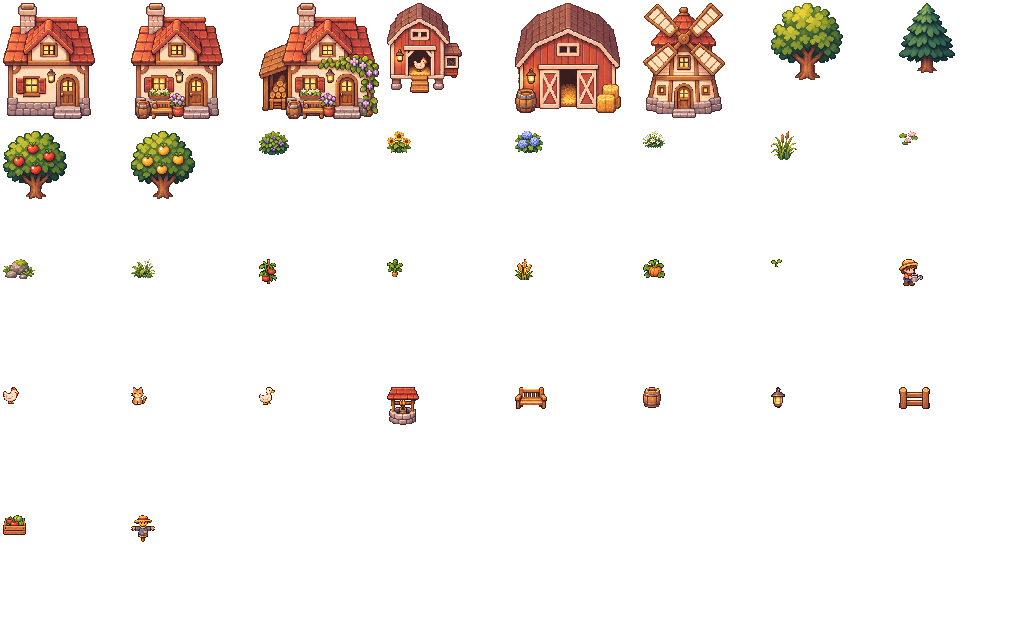
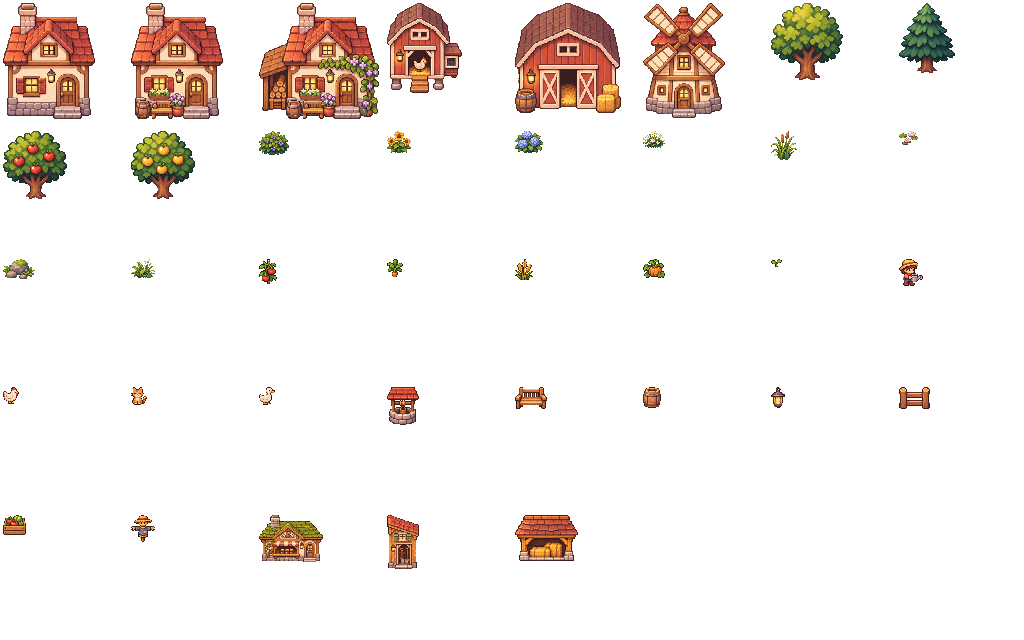
Add distinct workshop materials for the three starter farms

Changed region(s): [[0.5, 0.7812, 0.5625, 0.875], [0.25, 0.8125, 0.3125, 0.875], [0.375, 0.8125, 0.4062, 0.9062]]

diff --git a/src/render/props.js b/src/render/props.js
@@ -1,5 +1,78 @@
 // Small pixel details built on the same grid as the spring sprites.
+const fruitCrate = [
+  ['#543924', -10, -12, 20, 11], ['#805236', -9, -11, 18, 5],
+  ['#674027', -8, -10, 16, 4], ['#d39755', -9, -6, 18, 2],
+  ['#a97543', -9, -4, 18, 2], ['#674427', -9, -2, 18, 2],
+  ['#e5b775', -10, -8, 2, 6], ['#99683d', 8, -8, 2, 6],
+];
+
 export const yardProps = {
+  'fruit-ladder': [
+    ['#59402a', -9, -2, 19, 2], ['#69472d', -3, -27, 4, 25],
+    ['#b58250', -2, -26, 2, 23], ['#593d27', 3, -26, 3, 20],
+    ['#6b472c', -8, -2, 3, 2], ['#6b472c', -7, -9, 3, 8],
+    ['#6b472c', -6, -16, 3, 8], ['#6b472c', -5, -23, 3, 8],
+    ['#d5a270', -6, -8, 2, 6], ['#d5a270', -5, -15, 2, 6],
+    ['#d5a270', -4, -22, 2, 6], ['#d5a270', -3, -27, 2, 5],
+    ['#a17144', -4, -22, 9, 2], ['#c9945d', -5, -16, 10, 2],
+    ['#c9945d', -6, -10, 11, 2], ['#c9945d', -7, -4, 12, 2],
+  ],
+  'fruit-crate-empty': fruitCrate,
+  'fruit-crate-full': [
+    ...fruitCrate,
+    ['#8f4632', -7, -12, 5, 5], ['#c8583b', -6, -13, 3, 3],
+    ['#b56534', -1, -12, 5, 5], ['#e5a655', 0, -13, 3, 4],
+    ['#aa4833', 4, -11, 4, 4], ['#d86444', 4, -12, 3, 3],
+    ['#6f8242', -4, -15, 2, 2], ['#788b46', 2, -14, 2, 2],
+    ['#d39755', -9, -7, 18, 2],
+  ],
+  'nursery-tray': [
+    ['#634329', -14, -16, 28, 16], ['#a97546', -13, -15, 26, 13],
+    ['#d7a066', -12, -15, 24, 2], ['#714e31', -11, -12, 22, 6],
+    ['#473523', -10, -11, 5, 4], ['#473523', -2, -11, 5, 4], ['#473523', 6, -11, 5, 4],
+    ['#7a913e', -9, -15, 3, 7], ['#9dac56', -11, -15, 5, 2],
+    ['#6e873d', 0, -17, 2, 9], ['#9cac57', -2, -15, 6, 2],
+    ['#7c9243', 7, -14, 2, 6], ['#9aaa53', 6, -15, 4, 2],
+    ['#e3b07a', -13, -5, 26, 1], ['#d19b60', -11, -3, 22, 1],
+  ],
+  'trellis-tomato': [
+    ['#65452b', -9, -2, 18, 2], ['#765236', -8, -30, 3, 29], ['#765236', 6, -30, 3, 29],
+    ['#bd8a54', -7, -30, 1, 27], ['#c5925a', 7, -29, 1, 27],
+    ['#ad7847', -9, -27, 18, 2], ['#a97444', -8, -14, 16, 2],
+    ['#3e5b2e', -3, -26, 4, 24], ['#61813a', -5, -23, 10, 6],
+    ['#597435', -7, -15, 13, 5], ['#739247', -5, -22, 5, 2],
+    ['#a24833', -4, -18, 5, 6], ['#cf6240', -3, -17, 3, 3],
+    ['#ad5136', 2, -10, 4, 4], ['#e47549', 3, -10, 2, 2],
+  ],
+  'watering-can': [
+    ['#45514a', -8, -9, 16, 8], ['#687b68', -7, -11, 12, 9],
+    ['#acb091', -6, -11, 9, 2], ['#86977d', -6, -8, 9, 5],
+    ['#34443e', -4, -13, 6, 3], ['#818f77', -3, -13, 4, 1],
+    ['#5b6e60', 5, -10, 3, 6], ['#758470', 6, -10, 4, 2],
+    ['#718371', -10, -8, 3, 4], ['#84927d', -12, -10, 3, 3],
+    ['#c0b9a0', -13, -11, 3, 2],
+  ],
+  'water-trough': [
+    ['#57412c', -16, -11, 32, 11], ['#956b47', -15, -10, 30, 7],
+    ['#bc965f', -15, -12, 30, 4], ['#684d36', -13, -11, 26, 4],
+    ['#4c7479', -12, -10, 24, 3], ['#7c9c8d', -11, -10, 9, 1],
+    ['#c59b64', -15, -6, 30, 1], ['#6d4c30', -13, -3, 3, 3],
+    ['#6d4c30', 10, -3, 3, 3],
+  ],
+  'hay-bale': [
+    ['#6d4b2e', -10, -13, 20, 13], ['#af7d40', -9, -11, 18, 10],
+    ['#dca752', -8, -13, 16, 4], ['#eac372', -7, -12, 14, 1],
+    ['#c8944a', -8, -8, 16, 2], ['#dba757', -7, -6, 11, 1],
+    ['#916438', -5, -13, 1, 12], ['#916438', 5, -13, 1, 12],
+    ['#cba26b', -4, -12, 1, 10], ['#cba26b', 6, -12, 1, 10],
+  ],
+  'egg-basket': [
+    ['#64452c', -8, -9, 16, 7], ['#8e5d35', -7, -8, 14, 7],
+    ['#e7d4ab', -5, -10, 4, 4], ['#f8e9ce', -4, -11, 2, 3],
+    ['#ddc49d', 0, -10, 4, 4], ['#f4e3c4', 1, -11, 2, 3],
+    ['#c38d4a', -7, -6, 14, 2], ['#dba45e', -6, -4, 12, 1],
+    ['#9a6838', -5, -3, 10, 2],
+  ],
   verge: [
     ['#69834a', -11, -2, 19, 2], ['#5c733f', -8, -4, 2, 3],
     ['#86964d', -7, -6, 2, 4], ['#a7aa5b', -4, -3, 2, 2],
@@ -28,11 +101,6 @@ export const yardProps = {
     ['#634329', -15, -25, 30, 4], ['#d19c68', -15, -26, 30, 2],
     ['#6d7e41', -8, -21, 5, 9], ['#b1a451', -7, -16, 2, 5],
     ['#a55734', 0, -20, 4, 8], ['#c68649', 6, -21, 3, 10],
-  ],
-  'jam-sign': [
-    ['#62402a', -1, -13, 2, 13], ['#573b29', -7, -19, 14, 11],
-    ['#e3c18a', -6, -18, 12, 9], ['#b14339', -3, -16, 6, 5],
-    ['#82613f', -3, -17, 6, 2], ['#eeaa77', -2, -15, 2, 2],
   ],
   'dock-post': [
     ['#563421', -2, -7, 4, 7], ['#b97f49', -1, -7, 2, 6], ['#e9bc7e', -1, -8, 2, 2],

diff --git a/src/farm/scene.js b/src/farm/scene.js
@@ -17,17 +17,17 @@ const additions = {
     [['crate', 166, 196, .72]],
     [['harvest-table', 219, 216], ['basket', 208, 224]],
     [['barrel', 305, 195, .73]],
-    [['drying-rack', 178, 204], ['scarecrow', 211, 267, .82]],
+    [['tool-shed', 110, 184, .94, 'tool-shed'], ['drying-rack', 178, 204], ['scarecrow', 211, 267, .82]],
     [['barrel', 502, 252, .83], ['crate', 502, 267, .83]],
     [['carrot', 488, 292, .88], ['tomato', 508, 291, .88], ['pumpkin', 528, 292, .84]],
   ],
   'creek-orchard': [
-    [['crate', 236, 218, .67]],
+    [['basket', 247, 210, .7]],
     [['daisy', 169, 240, .8], ['hydrangea', 201, 260, .72]],
     [['barrel', 178, 217, .7]],
-    [['harvest-table', 253, 216], ['basket', 268, 223]],
+    [['harvest-table', 253, 216], ['fruit-crate-full', 271, 222]],
     [['crate', 268, 244, .72]],
-    [['coop', 290, 171, .63, 'jam-shed'], ['jam-sign', 309, 178]],
+    [['jam-shed', 312, 171, .95, 'jam-shed']],
     [['bench', 537, 249, .86], ['crate', 559, 253, .83]],
     [['apple', 515, 197, .87], ['orange', 545, 172, .84], ['dock-post', 135, 218], ['dock-post', 136, 229]],
   ],
@@ -35,9 +35,9 @@ const additions = {
     [['chicken', 378, 248, .74]],
     [['daisy', 301, 271, .78], ['sunflower', 364, 279, .77]],
     [['crate', 350, 244, .7]],
-    [['harvest-table', 266, 209], ['basket', 273, 208]],
+    [['harvest-table', 246, 201], ['hay-bale', 334, 251], ['egg-basket', 371, 193]],
     [['chicken', 394, 194, .84]],
-    [['feed-bin', 284, 193], ['crate', 304, 193, .68]],
+    [['hay-shed', 267, 183, .94, 'hay-shed'], ['feed-bin', 284, 193], ['crate', 304, 193, .68]],
     [['coop', 529, 180, .87], ['barrel', 549, 194, .74]],
     [['chicken', 527, 224, .86], ['verge', 503, 252]],
   ],
@@ -46,16 +46,18 @@ const additions = {
 const yardPaths = {
   'cottage-garden': [
     {at: 100, route: {id: 'drying-yard', points: [[180, 212], [196, 210], [232, 204]]}},
+    {at: 100, route: {id: 'tool-shed-yard', points: [[111, 190], [120, 213], [139, 221], [173, 219], [184, 212]]}},
   ],
   'creek-orchard': [
     {at: 0, route: {id: 'picking-path', points: [[156, 174], [157, 202], [156, 223]]}},
     {at: 25, route: {id: 'harvest-path', points: [[253, 226], [232, 238]]}},
-    {at: 100, route: {id: 'jam-yard', points: [[290, 178], [292, 200], [284, 226]]}, surface: {x: 273, y: 173, width: 36, height: 16, material: 'stone'}},
+    {at: 100, route: {id: 'jam-yard', points: [[312, 178], [310, 195], [301, 211], [284, 226]]}, surface: {x: 276, y: 172, width: 54, height: 13, material: 'stone'}},
     {at: 300, surface: {x: 130, y: 216, width: 37, height: 14, material: 'dock'}},
     {at: 300, route: {id: 'new-orchard', points: [[531, 184], [537, 207], [528, 229]]}},
   ],
   'barnyard-pasture': [
     {at: 100, route: {id: 'feed-yard', points: [[284, 205], [287, 215], [292, 223]]}, surface: {x: 273, y: 191, width: 41, height: 15, material: 'wood'}},
+    {at: 100, route: {id: 'hay-shed-yard', points: [[266, 190], [268, 203], [284, 205]]}},
   ],
 };
 
@@ -102,6 +104,10 @@ function growStarterPlants(objects, theme, stars, seed) {
       if (pondDistance(theme.pond, seed, x, y) >= 2 && routeDistance(theme.routes, x, y) >= 7
         && !reserved.some(rect => contains(rect, x, y, 2))) Object.assign(object, {x, y});
     }
+  }
+  if (theme.slug === 'cottage-garden' && stars >= 25) {
+    const plant = objects.find(object => object.id === 'bed-0-crop-0-1');
+    plant.type = 'trellis-tomato';
   }
 }
 

diff --git a/src/farm/yard.js b/src/farm/yard.js
@@ -1,21 +1,21 @@
 const yards = {
   'cottage-garden': {
     name: 'Cottage Garden',
-    plot: ['Kitchen garden', 'Mixed rows of vegetables grow by the cottage.'],
+    plot: ['Kitchen garden', 'Seedlings wait by the cottage and tomatoes grow on a trellis beside the vegetable rows.'],
     work: ['Drying rack', 'Herbs and produce dry beside the path before going into storage.', 100, 178, 204],
     harvest: [219, 216],
   },
   'creek-orchard': {
     name: 'Creekside Orchard',
     plot: ['Kitchen garden', 'Vegetable beds supply the cottage while the fruit trees grow.'],
-    work: ['Jam shed', 'Fruit from the sorting deck goes here to be cooked and bottled.', 100, 290, 171],
+    work: ['Jam shed', 'Fruit moves from the ladder to the sorting crates, then to this small workshop for cooking and bottling.', 100, 304, 163],
     harvest: [253, 216],
   },
   'barnyard-pasture': {
     name: 'Barnyard Pasture',
     plot: ['Feed crops', 'The rows of grain help supply the coop beside the pasture.'],
     work: ['Feed station', 'The farmer brings feed from the crates into the chicken yard.', 100, 284, 193],
-    harvest: [266, 209],
+    harvest: [246, 201],
   },
 };
 
@@ -35,13 +35,19 @@ export function describeYard(theme, objects, beds, blueprint) {
   ];
   if (theme === 'creek-orchard') {
     places.push(
-      {id: 'orchard', label: 'Fruit trees', x: 155, y: 133, at: 0, description: 'The young tree first bears fruit at 5 Stars. The second row grows at 300 Stars.'},
+      {id: 'orchard', label: 'Fruit trees', x: 155, y: 133, at: 0, description: 'A picking ladder leads into the orchard. The young tree bears fruit at 5 Stars and the second row grows at 300 Stars.'},
       {id: 'dock', label: 'Wooden dock', x: 147, y: 218, at: 300, description: 'The dock links the path to the water, beside a shallow spot for ducks.'},
     );
   }
   if (theme === 'barnyard-pasture') {
     const [x, y] = blueprint.livestock;
-    places.push({id: 'coop', label: 'Chicken coop', x, y: y - 39, at: 0, description: 'The fenced yard beside the coop gives the chickens space to roam.'});
+    places.push(
+      {id: 'coop', label: 'Chicken coop', x, y: y - 39, at: 0, description: 'Chickens have a trough inside the yard. An egg basket sits beside the coop at 25 Stars.'},
+      {id: 'hay-shed', label: 'Hay shelter', x: 267, y: 156, at: 100, description: 'The low timber shelter keeps extra hay close to the feed station.'},
+    );
+  }
+  if (theme === 'cottage-garden') {
+    places.push({id: 'tool-shed', label: 'Tool shed', x: 110, y: 151, at: 100, description: 'Tools are stored near the nursery and the path to the vegetable beds.'});
   }
   const windmill = objects.find(object => object.id === 'windmill');
   if (windmill) places.push({id: 'windmill', label: 'Windmill', x: windmill.x, y: windmill.y - 37, at: 5000, description: 'The mill yard is the final building milestone at 5,000 Stars.'});

diff --git a/test/farm.test.js b/test/farm.test.js
@@ -75,7 +75,10 @@ test('the orchard connects its fruit trees, table, shed and dock at their milest
 test('paths stay connected, fences leave access, and yard props respect water and crop beds', () => {
  const waterOnly = new Set(['duck', 'waterlily']);
  const shoreAllowed = new Set(['dock-post', 'rock', 'reeds']);
- const furniture = new Set(['bench', 'crate', 'barrel', 'harvest-table', 'feed-bin', 'drying-rack']);
+ const furniture = new Set([
+  'bench', 'crate', 'barrel', 'harvest-table', 'feed-bin', 'drying-rack',
+  'nursery-tray', 'water-trough', 'hay-bale', 'fruit-crate-empty', 'fruit-crate-full',
+ ]);
  for (let i = 0; i < 12; i++) {
   for (const stars of [0, 25, 100, 200, 300, 400, 1200, 2000, 2900, 5000]) {
    const scene = createStarterScene(snapshot(`demo-${i}`, stars));
@@ -109,6 +112,31 @@ test('paths stay connected, fences leave access, and yard props respect water an
    }
   }
  }
+});
+
+test('each farm has its own starter props and a workshop unlocked at 100 Stars', () => {
+ const packs = {
+  'cottage-garden': [['nursery-tray', 'watering-can'], ['trellis-tomato'], 'tool-shed', 'tool-shed-yard'],
+  'creek-orchard': [['fruit-ladder', 'fruit-crate-empty'], ['fruit-crate-full'], 'jam-shed', 'jam-yard'],
+  'barnyard-pasture': [['water-trough'], ['hay-bale', 'egg-basket'], 'hay-shed', 'hay-shed-yard'],
+ };
+ const assigned = new Set();
+ for (let i = 0; i < 24 && assigned.size < 3; i++) {
+  const sceneAt = stars => createStarterScene(snapshot(`demo-${i}`, stars));
+  const start = sceneAt(0);
+  if (assigned.has(start.theme)) continue;
+  assigned.add(start.theme);
+  const [starterTypes, sortingTypes, shed, route] = packs[start.theme];
+  const has = (scene, type) => scene.objects.some(object => object.type === type);
+  for (const type of starterTypes) assert.ok(has(start, type), type);
+  const sorted = sceneAt(25);
+  for (const type of sortingTypes) assert.ok(has(sorted, type), type);
+  assert.ok(!has(sceneAt(99), shed));
+  const workshop = sceneAt(100);
+  assert.ok(has(workshop, shed));
+  assert.ok(workshop.blueprint.routes.some(path => path.id === route));
+ }
+ assert.equal(assigned.size, 3);
 });
 
 test('each approved terrain grows through the full schedule and unlocks a windmill at 5000', () => {

diff --git a/src/farm/layouts.js b/src/farm/layouts.js
@@ -33,7 +33,8 @@ export const starterThemes = [
     ],
     props: [
       ['cottage-3', 233, 181], ['well', 285, 206], ['farmer', 230, 232, .9], ['cat', 130, 185, .85],
-      ['barrel', 120, 178, .9], ['crate', 132, 204, .82], ['lamp', 252, 189, .83],
+      ['barrel', 91, 193, .77], ['crate', 132, 204, .82], ['lamp', 252, 189, .83],
+      ['nursery-tray', 153, 205], ['watering-can', 301, 202, .93],
       ['oak', 79, 128, 1.04], ['berry', 85, 185, .93], ['daisy', 89, 204, .82],
       ['bench', 381, 197, .85], ['reeds', 401, 222, .75], ['rock', 469, 217, .75],
       ['waterlily', 438, 197, .9], ['reeds', 460, 219, .68], ['daisy', 394, 232, .74],
@@ -61,7 +62,8 @@ export const starterThemes = [
       ['cottage-2', 398, 187], ['farmer', 246, 228, .9], ['cat', 362, 198, .82],
       ['apple', 155, 156, 1.03, 'young-fruit'], ['orange', 224, 142, 1.05], ['orange', 179, 202, .95],
       ['apple', 252, 189, .99], ['apple', 327, 168, .81],
-      ['crate', 210, 218, .88], ['crate', 191, 221, .81], ['barrel', 228, 212, .83],
+      ['crate', 210, 218, .88], ['crate', 191, 221, .81], ['barrel', 220, 211, .78],
+      ['fruit-ladder', 194, 204, .91], ['fruit-crate-empty', 235, 218],
       ['bench', 307, 232, .78], ['lamp', 371, 203, .85],
       ['reeds', 118, 174, .83], ['reeds', 145, 251, .76], ['rock', 151, 193, .65],
       ['rock', 121, 270, .76], ['reeds', 84, 284, .79], ['daisy', 168, 210, .68],
@@ -92,6 +94,7 @@ export const starterThemes = [
       ['farmer', 299, 228, .92], ['cat', 120, 190, .83], ['lamp', 194, 193, .88],
       ['barrel', 325, 181, .88], ['crate', 325, 194, .8], ['barrel', 386, 183, .89],
       ['bench', 409, 191, .83], ['chicken', 354, 201, 1], ['chicken', 375, 213, .96],
+      ['water-trough', 403, 252],
       ['chicken', 337, 225, .87], ['chicken', 426, 215, .95], ['duck', 408, 231, .74],
       ['fern', 438, 220, .9], ['reeds', 420, 242, .52], ['rock', 426, 253, .7],
       ['orange', 429, 154, .91], ['oak', 68, 179, 1.05], ['daisy', 84, 185, .82],

diff --git a/src/farm/terrain.js b/src/farm/terrain.js
@@ -31,14 +31,16 @@ export function routeDistance(routes, x, y) {
 const footprints = {
   'cottage-1': [60, 13], 'cottage-2': [65, 14], 'cottage-3': [76, 15],
   coop: [44, 10], barn: [55, 12], windmill: [40, 11],
+  'jam-shed': [55, 10], 'tool-shed': [24, 8], 'hay-shed': [57, 9],
   well: [20, 7], bench: [26, 6], 'harvest-table': [25, 7], 'feed-bin': [20, 6],
+  'nursery-tray': [27, 7], 'water-trough': [32, 7], 'hay-bale': [19, 7],
 };
 
 export function occupiedGround(objects, beds, fences) {
   const plots = beds.map(({x, y, w, h}) => ({x: x - w / 2, y: y - h / 2, w, h}));
   const solids = objects.filter(({type}) => footprints[type]).map(({type, x, y, scale}) => {
     const [width, depth] = footprints[type];
-    const pivot = type.startsWith('cottage') ? .7 : .5;
+    const pivot = type.startsWith('cottage') || type === 'jam-shed' ? .7 : .5;
     const w = width * scale, h = depth * scale;
     return {x: x - w * pivot, y: y - h - 1, w, h};
   });

diff --git a/scripts/atlas-layout.js b/scripts/atlas-layout.js
@@ -11,5 +11,7 @@ export const SPRING_SHEETS = [
  ['tomato',18,26],['carrot',16,20],['wheat',18,26],['pumpkin',22,20],
  ['sprout',12,8],['farmer',24,32],['chicken',16,17],['cat',16,20],
  ['duck',18,18],['well',32,40],['bench',34,22],['barrel',18,22],
- ['lamp',14,25],['fence',34,22],['crate',24,20],['scarecrow',24,36]]}
+ ['lamp',14,25],['fence',34,22],['crate',24,20],['scarecrow',24,36]]},
+ {id:'workshops',file:'spring-workshops.png',cols:3,rows:1,items:[
+ ['jam-shed',64,49,.69],['tool-shed',42,54,.54],['hay-shed',66,46,.52]]}
 ];

diff --git a/scripts/pages.html b/scripts/pages.html
@@ -92,6 +92,7 @@
         <button id="toggle-places" class="quiet-button" type="button" aria-controls="places" aria-expanded="false">Show places</button>
         <a id="download" href="./farm.png" download>Download current PNG</a>
         <a href="./orchard-growth.png">Orchard comparison</a>
+        <a href="./farm-materials.png">Garden, orchard &amp; pasture</a>
         <a href="./orchard-details.png">Shore &amp; fence details</a>
       </div>
     </section>

diff --git a/docs/ASSETS.md b/docs/ASSETS.md
@@ -17,4 +17,14 @@
 
 2026-11-05 使用内置图像生成工具制作建筑、自然与道具三个原稿。提示词要求原创像素精灵、透明背景和统一网格。编译器从原稿中提取 34 帧，其中小屋有三帧升级样式。
 
+### 作业棚屋
+
+[春季作业棚屋素材](../assets/source/spring-workshops.png)是三张图像生成原稿裁切、保留透明通道并拼成的一排。图集现有 37 帧，另有 9 件配套作业道具在 [props.js](../src/render/props.js) 用原生像素构建。
+
+生成提示共用 [春季建筑图](../assets/source/spring-buildings.png) 作画风参考。三件分别独立生成，均要求暖赭色、蜂蜜木色和奶油色石块，棕色描边，正面浅俯视，左上方光照，透明背景和清楚的像素轮廓。无场景底、外投影、白边、文字、附加物。用途和原稿 SHA-256 如下。
+
[3 lines of base64/hex data omitted]
+
 [风格参考与设计稿](https://github.com/YeatsLiao/github-farm/tree/65b831e396cdd3d83d175186cfd340e7146ac3be/docs/design/star-farm-v1)及[生成与编译记录](https://github.com/YeatsLiao/github-farm/tree/65b831e396cdd3d83d175186cfd340e7146ac3be/assets/source/spring)可在整理前的 Git 提交查看。

diff --git a/README.md b/README.md
@@ -6,7 +6,7 @@ A GitHub repository’s stars grow a pixel-art farm. Each repository gets a stab
 
 [Open the generator](https://yeatsliao.github.io/github-farm/) and enter any public repository as `OWNER/REPO` or paste its GitHub URL. [Try octocat/git-consortium](https://yeatsliao.github.io/github-farm/?repo=octocat%2Fgit-consortium).
 
-Move through the growth timeline to compare still images of the same farm. Select **Show places** to inspect the map. [Compare four orchard stages](https://yeatsliao.github.io/github-farm/orchard-growth.png) · [See the shore and fence details](https://yeatsliao.github.io/github-farm/orchard-details.png).
+Move through the growth timeline to compare still images of the same farm. Select **Show places** to inspect the map. [See all three farms at 0, 25 and 100 stars](https://yeatsliao.github.io/github-farm/farm-materials.png) · [Compare four orchard stages](https://yeatsliao.github.io/github-farm/orchard-growth.png).
 
 [![GitHub Farm and its star statistics](https://yeatsliao.github.io/github-farm/farm.png)](https://yeatsliao.github.io/github-farm/)
 

diff --git a/docs/README.zh-CN.md b/docs/README.zh-CN.md
@@ -6,7 +6,7 @@
 
 在[在线生成器](https://yeatsliao.github.io/github-farm/)输入任意公开仓库的 `OWNER/REPO`，也可以粘贴 GitHub 仓库链接。[试试 octocat/git-consortium](https://yeatsliao.github.io/github-farm/?repo=octocat%2Fgit-consortium)。
 
-拖动成长时间轴可以对比同一农场在不同档位的静态图。点击 **Show places** 会显示地点标记，可查看用途和解锁条件。[溪边果园四阶段对照](https://yeatsliao.github.io/github-farm/orchard-growth.png) · [岸线与围栏细节](https://yeatsliao.github.io/github-farm/orchard-details.png)
+拖动成长时间轴可以对比同一农场在不同档位的静态图。点击 **Show places** 会显示地点标记，可查看用途和解锁条件。[三种农场的 0、25、100 Stars 对照](https://yeatsliao.github.io/github-farm/farm-materials.png) · [溪边果园四阶段对照](https://yeatsliao.github.io/github-farm/orchard-growth.png)
 
 [![GitHub Farm 农场及 Star 统计](https://yeatsliao.github.io/github-farm/farm.png)](https://yeatsliao.github.io/github-farm/)
 

diff --git a/docs/UPGRADE-PLAN.md b/docs/UPGRADE-PLAN.md
@@ -24,4 +24,12 @@
 - [岸线、收获台与围栏放大图](https://yeatsliao.github.io/github-farm/orchard-details.png)
 - [线上静态果园](https://yeatsliao.github.io/github-farm/?repo=octocat%2Fgit-consortium)
 
+## 三种农场的作业素材
+
+- **庭院菜园**开局有育苗盘和浇水壶，25 Stars 架起番茄竹架，100 Stars 在田埂的小路旁开工具棚。
+- **溪边果园**开局有采果梯和空果筐，25 Stars 在分拣台旁添上满果筐，100 Stars 接入绿顶果酱棚。
+- **谷仓牧场**开局有饮水槽，25 Stars 添草捆和鸡舍旁的蛋篮，100 Stars 接入储草棚。
+
+[三种农场的 0、25、100 Stars 对照](https://yeatsliao.github.io/github-farm/farm-materials.png)
+
 项目继续使用现有目录。素材原稿放在 `assets/source/`，运行时图集放在 `assets/runtime/`，局部预览图放在 `dist/`。网页和 Actions 复用同一套卡片绘制。
